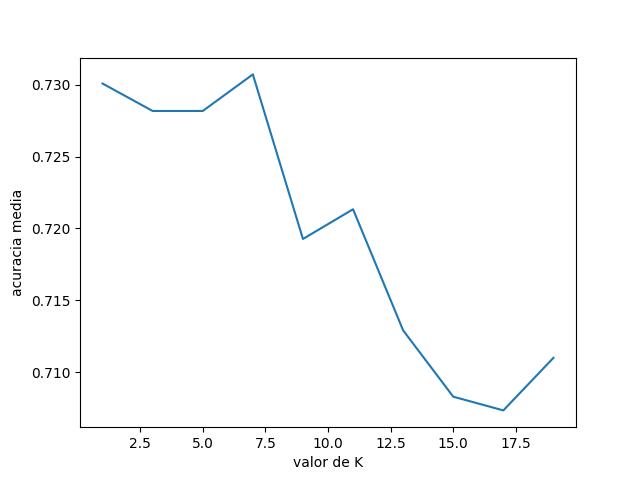
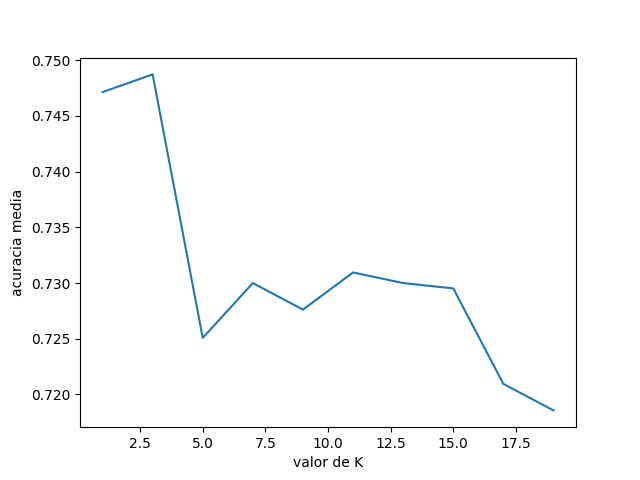
Changed ClassifierTester to use k = 3 and updated results for k search

diff --git a/classifiers/ClassifierTester.py b/classifiers/ClassifierTester.py
@@ -79,8 +79,8 @@ class ClassifierTester:
             
             classifier_bayes_shape = BayesClassifier(X_train_shape, Y_train, classes)
             classifier_bayes_rgb = BayesClassifier(X_train_rgb, Y_train, classes)
-            classifier_knn_shape = KnnClassifier(X_train_shape, Y_train, 7)
-            classifier_knn_rgb = KnnClassifier(X_train_rgb, Y_train, 7)
+            classifier_knn_shape = KnnClassifier(X_train_shape, Y_train, 3)
+            classifier_knn_rgb = KnnClassifier(X_train_rgb, Y_train, 3)
             classifier_majority = MajorityVoteClassifier(X_train, Y_train, classes)
 
             accuracies_bayes_shape.append(classifier_bayes_shape.evaluate(X_test_shape, Y_test))
